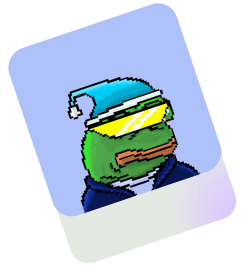
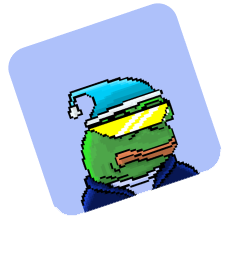
Blur imagess and overlow work

Changed region(s): [[0.2324, 0.5736, 0.9876, 0.9962]]

diff --git a/src/scss/_responsive.scss b/src/scss/_responsive.scss
@@ -62,7 +62,7 @@ margin-top:-22px;
 	font-size: 72px;
 	line-height: 84px;
 	color: $textcolor;}
-	.mintsection{padding-left:70px;padding-right:50px;padding-bottom: 130px;overflow: hidden;}
+	.mintsection{padding-left:70px;padding-right:50px;padding-bottom: 130px;}
 	.mintsection p{margin:50px 0;}
 	.fairsection .col-md-5{margin:0 auto;float:none;text-align:center!important;}
 	.faq{padding:100px 0;}

diff --git a/src/scss/_home.scss b/src/scss/_home.scss
@@ -73,7 +73,7 @@ font-weight: 900;
 font-size: 92px;
 line-height: 84px;
 color: $textcolor;}
-.mintsection{padding-left:120px;padding-right:90px;padding-bottom: 130px;overflow: hidden;}
+.mintsection{padding-left:120px;padding-right:90px;padding-bottom: 130px;}
 .mintsection p{margin:50px 0;}
 .fairsection .col-md-5{margin:0 auto;float:none;text-align:center!important;}
 .faq{padding:100px 0;}
